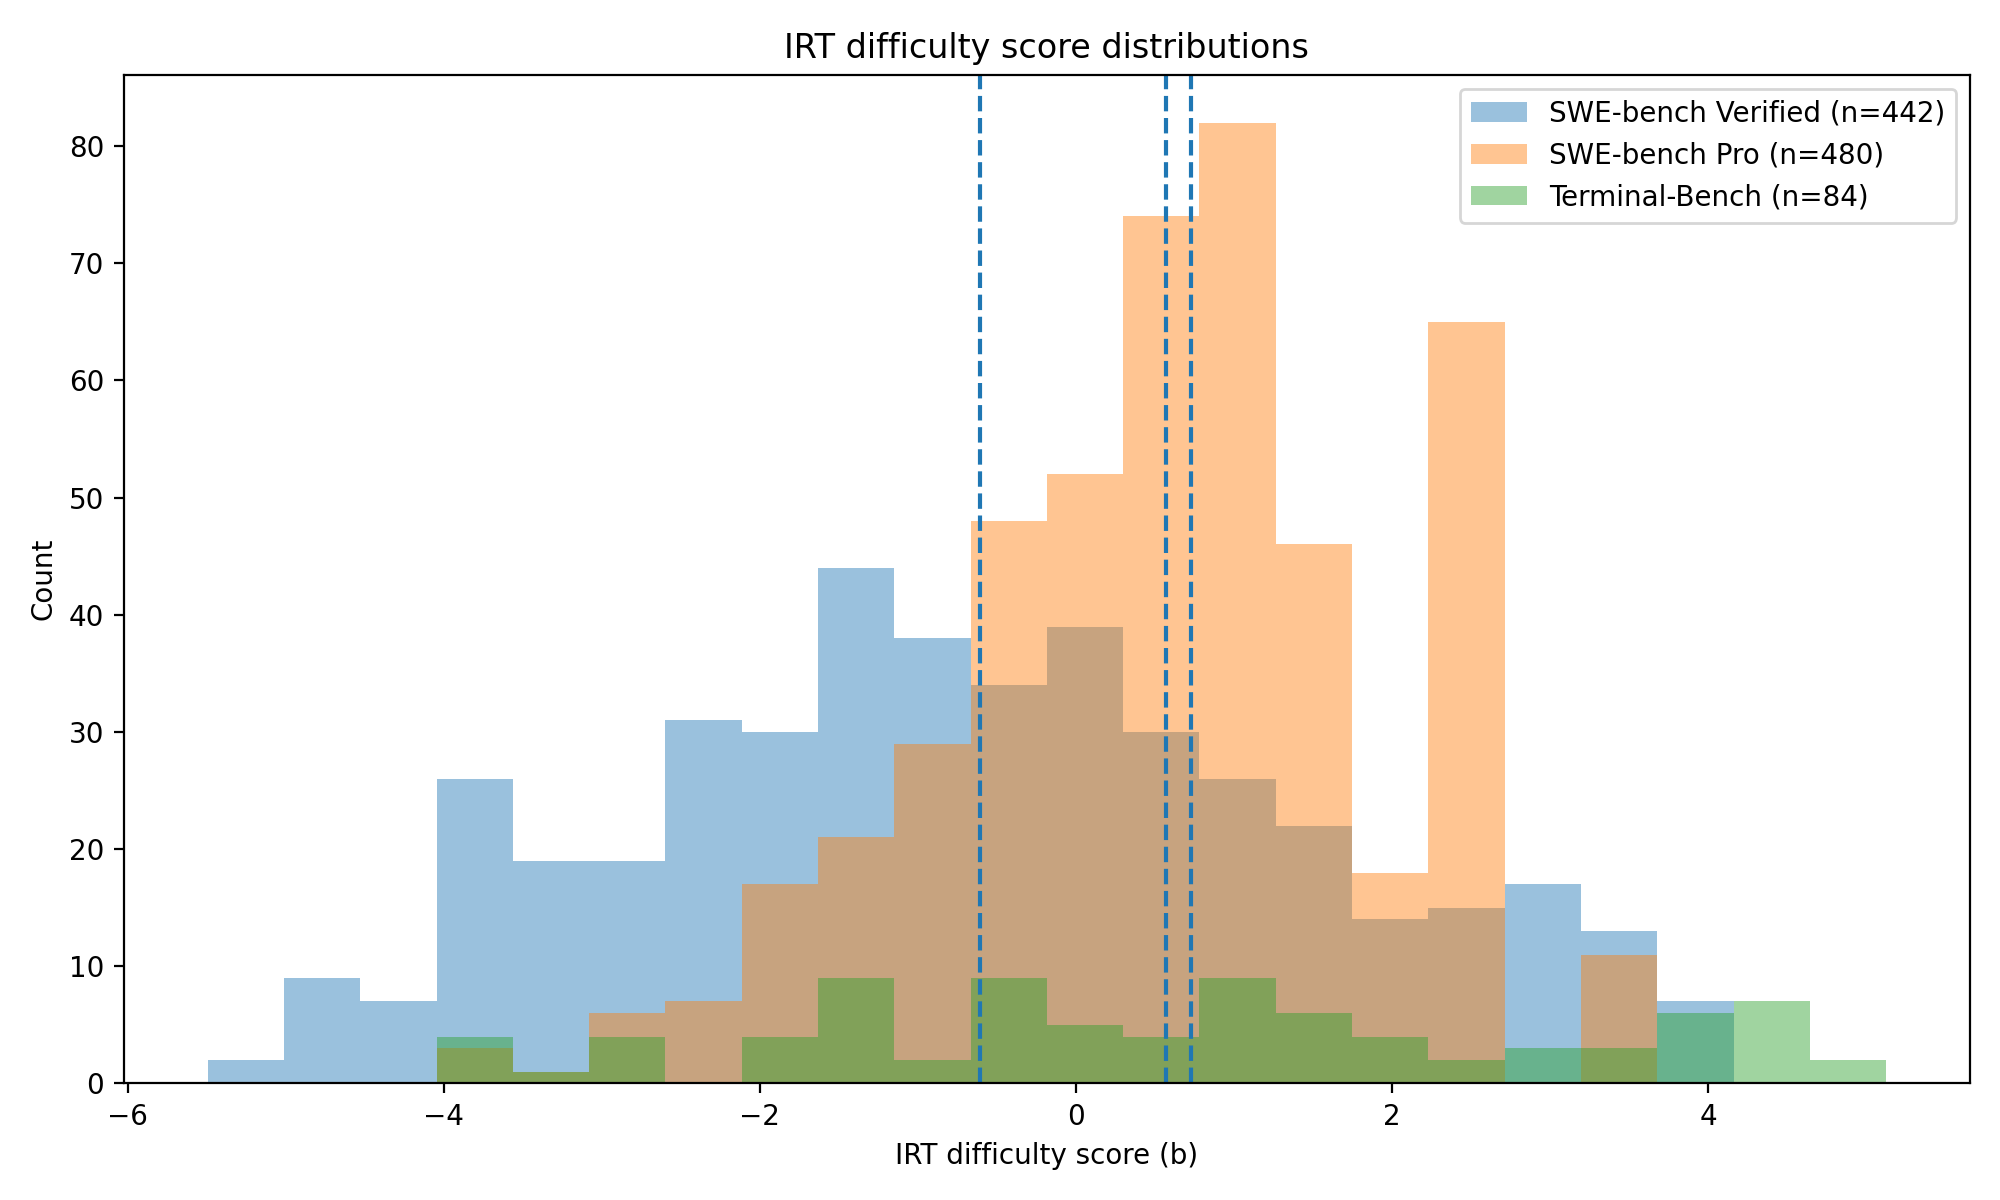
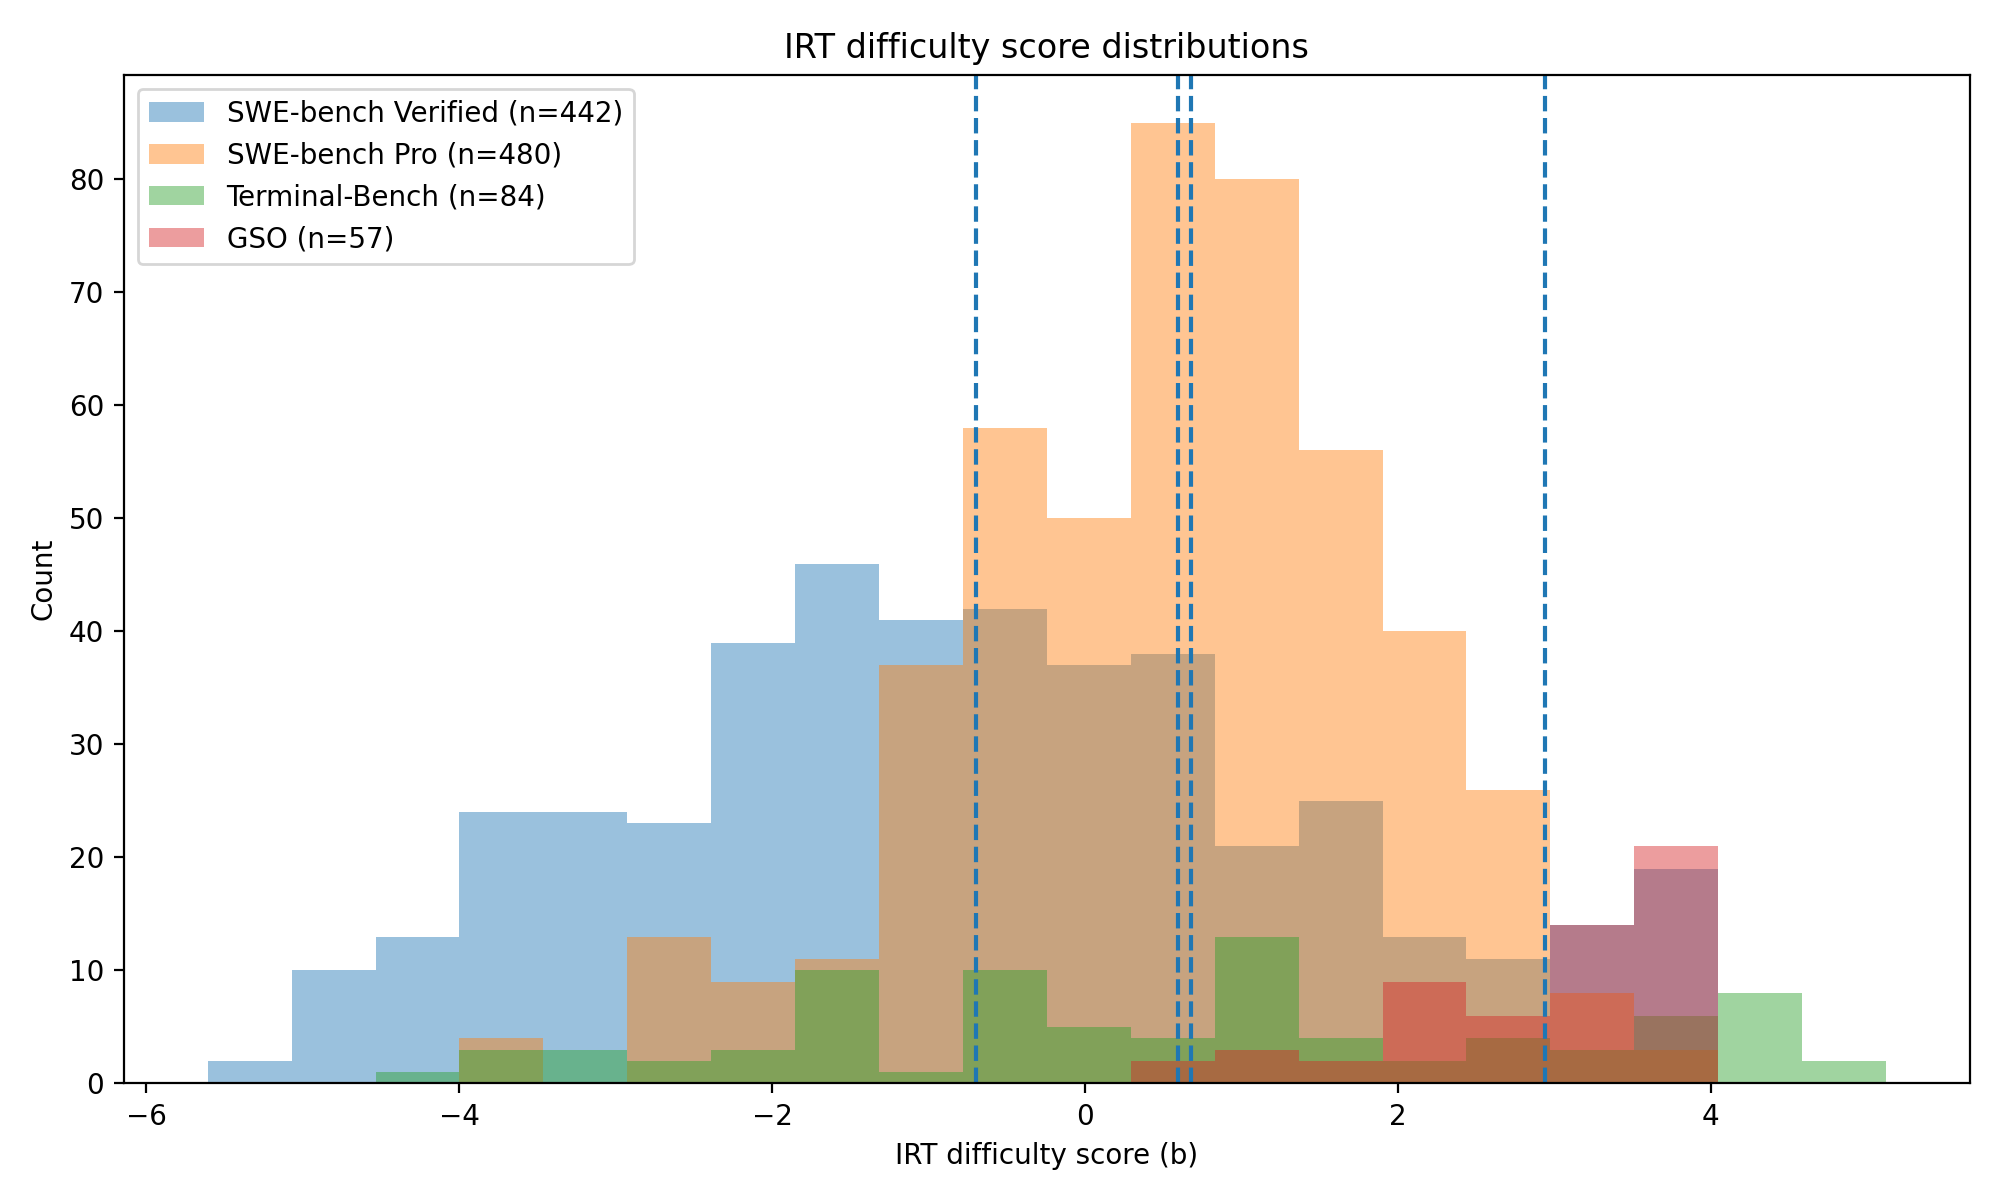
4-benchmark plot

diff --git a/analyze_difficulty_scores.py b/analyze_difficulty_scores.py
@@ -1,4 +1,5 @@
 #!/usr/bin/env python3
+# pyright: reportMissingImports=false
 """
 Analyze and plot IRT difficulty ("b") distributions across benchmarks.
 
@@ -6,6 +7,7 @@ Reads:
 - SWE-bench Verified: items_verified.csv
 - SWE-bench Pro:      items_pro.csv
 - Terminal-Bench:     items_terminal_bench.csv
+- GSO:                items_gso.csv
 
 Each CSV is expected to contain a 'b' column (difficulty) and optionally 'b_std'.
 We compute mean and variance of 'b' per benchmark and save an overlapping histogram.
@@ -20,7 +22,7 @@ import argparse
 import csv
 from dataclasses import dataclass
 from pathlib import Path
-from typing import Iterable, List, Optional, Sequence, Tuple
+from typing import List, Optional, Sequence, Tuple
 
 
 def _require(pkg: str) -> None:
@@ -43,11 +45,26 @@ matplotlib.use("Agg")  # noqa: E402
 import matplotlib.pyplot as plt  # noqa: E402
 
 
+Scores = np.ndarray
+SCRIPT_DIR = Path(__file__).resolve().parent
+
+
+def resolve_path(p: str) -> Path:
+    """
+    Interpret relative paths as relative to this script's directory, so the script
+    behaves consistently no matter the current working directory.
+    """
+    path = Path(p)
+    if path.is_absolute():
+        return path
+    return (SCRIPT_DIR / path).resolve()
+
+
 @dataclass(frozen=True)
 class BenchmarkScores:
     name: str
     path: Path
-    scores: np.ndarray
+    scores: Scores
 
 
 def _guess_id_field(fieldnames: Sequence[str]) -> Optional[str]:
@@ -66,7 +83,7 @@ def _guess_id_field(fieldnames: Sequence[str]) -> Optional[str]:
     return None
 
 
-def load_b_scores(csv_path: Path) -> np.ndarray:
+def load_b_scores(csv_path: Path) -> Scores:
     if not csv_path.exists():
         raise FileNotFoundError(f"CSV not found: {csv_path}")
     scores: List[float] = []
@@ -150,7 +167,6 @@ def plot_overlapping_histograms(
 
 
 def parse_args(argv: Optional[Sequence[str]] = None) -> argparse.Namespace:
-    default_root = Path(__file__).resolve().parent
     return argparse.ArgumentParser(description=__doc__).parse_args(argv)
 
 
@@ -173,6 +189,12 @@ def main(argv: Optional[Sequence[str]] = None) -> int:
         type=str,
         default="out/multi_benchmark_ood/irt_model_scaffold_1pl/items_terminal_bench.csv",
         help="Path to Terminal-Bench items CSV (must contain column 'b').",
+    )
+    p.add_argument(
+        "--items_gso_csv",
+        type=str,
+        default="out/multi_benchmark_ood/irt_model_scaffold_1pl/items_gso.csv",
+        help="Path to GSO items CSV (must contain column 'b').",
     )
     p.add_argument(
         "--out_plot",
@@ -200,15 +222,17 @@ def main(argv: Optional[Sequence[str]] = None) -> int:
     )
     args = p.parse_args(argv)
 
-    # Resolve relative paths from repo/workspace root (current working directory).
-    verified_path = Path(args.items_verified_csv)
-    pro_path = Path(args.items_pro_csv)
-    tb_path = Path(args.items_terminal_bench_csv)
+    verified_path = resolve_path(args.items_verified_csv)
+    pro_path = resolve_path(args.items_pro_csv)
+    tb_path = resolve_path(args.items_terminal_bench_csv)
+    gso_path = resolve_path(args.items_gso_csv)
+    out_plot_path = resolve_path(args.out_plot)
 
     benchmarks = [
         BenchmarkScores("SWE-bench Verified", verified_path, load_b_scores(verified_path)),
         BenchmarkScores("SWE-bench Pro", pro_path, load_b_scores(pro_path)),
         BenchmarkScores("Terminal-Bench", tb_path, load_b_scores(tb_path)),
+        BenchmarkScores("GSO", gso_path, load_b_scores(gso_path)),
     ]
 
     print("Benchmark difficulty statistics (b):")
@@ -227,13 +251,13 @@ def main(argv: Optional[Sequence[str]] = None) -> int:
 
     plot_overlapping_histograms(
         benchmarks=benchmarks,
-        out_path=Path(args.out_plot),
+        out_path=out_plot_path,
         bins=bins,
         title=str(args.title),
         alpha=float(args.alpha),
         normalize=bool(args.normalize),
     )
-    print(f"Wrote plot: {args.out_plot}")
+    print(f"Wrote plot: {out_plot_path}")
     return 0
 
 
